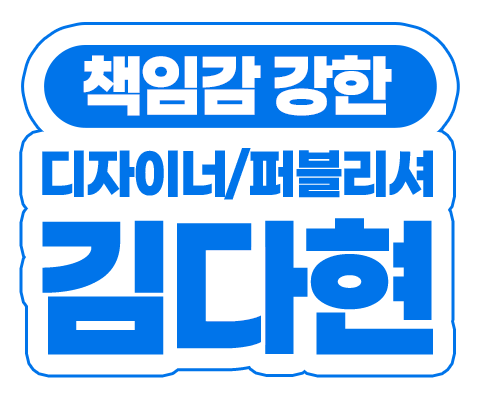
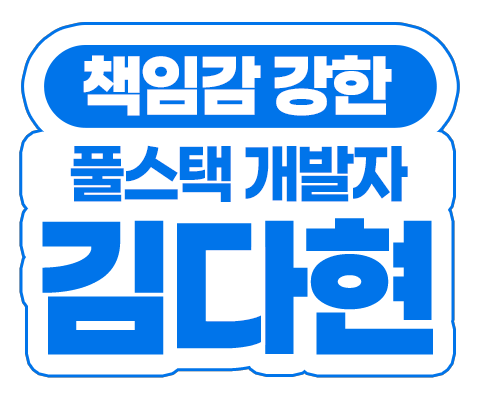
메인 이미지, 인사말 수정

Changed region(s): [[0.0625, 0.36, 0.9062, 0.51]]

diff --git a/profile2.html b/profile2.html
@@ -76,16 +76,16 @@
                         <p class="stit" data-aos="fade-left" data-aos-duration="500"><span class="point">책임감 강한 디자이너</span> 김다현입니다.</p>
                         <div class="long__text" data-aos="fade-left" data-aos-duration="1500">
                             어릴 적부터 책임감 있게 움직이는 것을 좋아해 선도부, 반장, 대학 학과 학생회장까지 다양한 리더 역할을 맡아왔습니다.<br>
-                            활발하고 주체적인 성격은 자연스럽게 조직 내에서 중심 역할을 하게 했고, 이 과정에서 **사람들과 원활하게 소통하고 조율하는 능력**을 길렀습니다.
+                            활발하고 주체적인 성격은 자연스럽게 조직 내에서 중심 역할을 하게 했고, 이 과정에서 사람들과 원활하게 소통하고 조율하는 능력을 길렀습니다.
                             <br><br>
-                            가정 형편상 사교육 없이 스스로 공부하며 **자기주도적인 학습 습관**을 키웠고, 그 결과 고등학교 3년 장학금, 대학 전액 장학금, 졸업학기 과 수석이라는 성취를 이루었습니다.<br>
-                            저는 “노력은 결코 결과를 배신하지 않는다”는 신념으로 어떤 일에도 **성실하게 임하며 꾸준한 실행력**으로 성장과 성과를 증명해 왔습니다.
+                            가정 형편상 사교육 없이 스스로 공부하며 자기주도적인 학습 습관을 키웠고, 그 결과 고등학교 3년 장학금, 대학 전액 장학금, 졸업학기 과 수석이라는 성취를 이루었습니다.<br>
+                            저는 “노력은 결코 결과를 배신하지 않는다”는 신념으로 어떤 일에도 성실하게 임하며 꾸준한 실행력으로 성장과 성과를 증명해 왔습니다.
                             <br><br>
-                            디자인 툴은 포토샵과 일러스트레이터를 **10년 이상 다뤄왔으며**, HTML/CSS 기반의 웹 퍼블리싱과 웹접근성에 대한 이해를 바탕으로 **실무 대응 역량**을 갖추고 있습니다.<br>
-                            또한 공공기관과 대학 프로젝트에서 **4년 5개월간 SI·SM 업무를 수행**하며 개발자 및 클라이언트와의 협업 경험을 쌓았습니다.
+                            디자인 툴은 포토샵과 일러스트레이터를 10년 이상 다뤄왔으며, HTML/CSS 기반의 웹 퍼블리싱과 웹접근성에 대한 이해를 바탕으로 실무 대응 역량을 갖추고 있습니다.<br>
+                            또한 공공기관과 대학 프로젝트에서 4년 5개월간 SI·SM 업무를 수행하며 개발자 및 클라이언트와의 협업 경험을 쌓았습니다.
                             <br><br>
-                            현재는 **프론트엔드·백엔드 개발 역량까지 확장**하며 성장하고 있습니다. 혼자서 온전한 웹 서비스를 구현할 수 있도록 Java와 Spring 기반 백엔드 공부를 병행하며, **디자인, 퍼블리싱, 서버 구현을 아우르는 융합형 인재**로 나아가고 있습니다.<br>
-                            주어진 일에 **책임감 있게 임하며**, 지속적인 배움과 실행으로 발전해 나가는 실무형 개발자로 귀사에 기여하겠습니다.
+                            현재는 프론트엔드·백엔드 개발 역량까지 확장하며 성장하고 있습니다. 혼자서 온전한 웹 서비스를 구현할 수 있도록 Java와 Spring 기반 백엔드 공부를 병행하며, 디자인, 퍼블리싱, 서버 구현을 아우르는 융합형 인재로 나아가고 있습니다.<br>
+                            주어진 일에 책임감 있게 임하며, 지속적인 배움과 실행으로 발전해 나가는 실무형 개발자로 귀사에 기여하겠습니다.
                         </div>
                     </div>
                     <div class="cover__image" data-aos="fade-right" data-aos-duration="1500">
